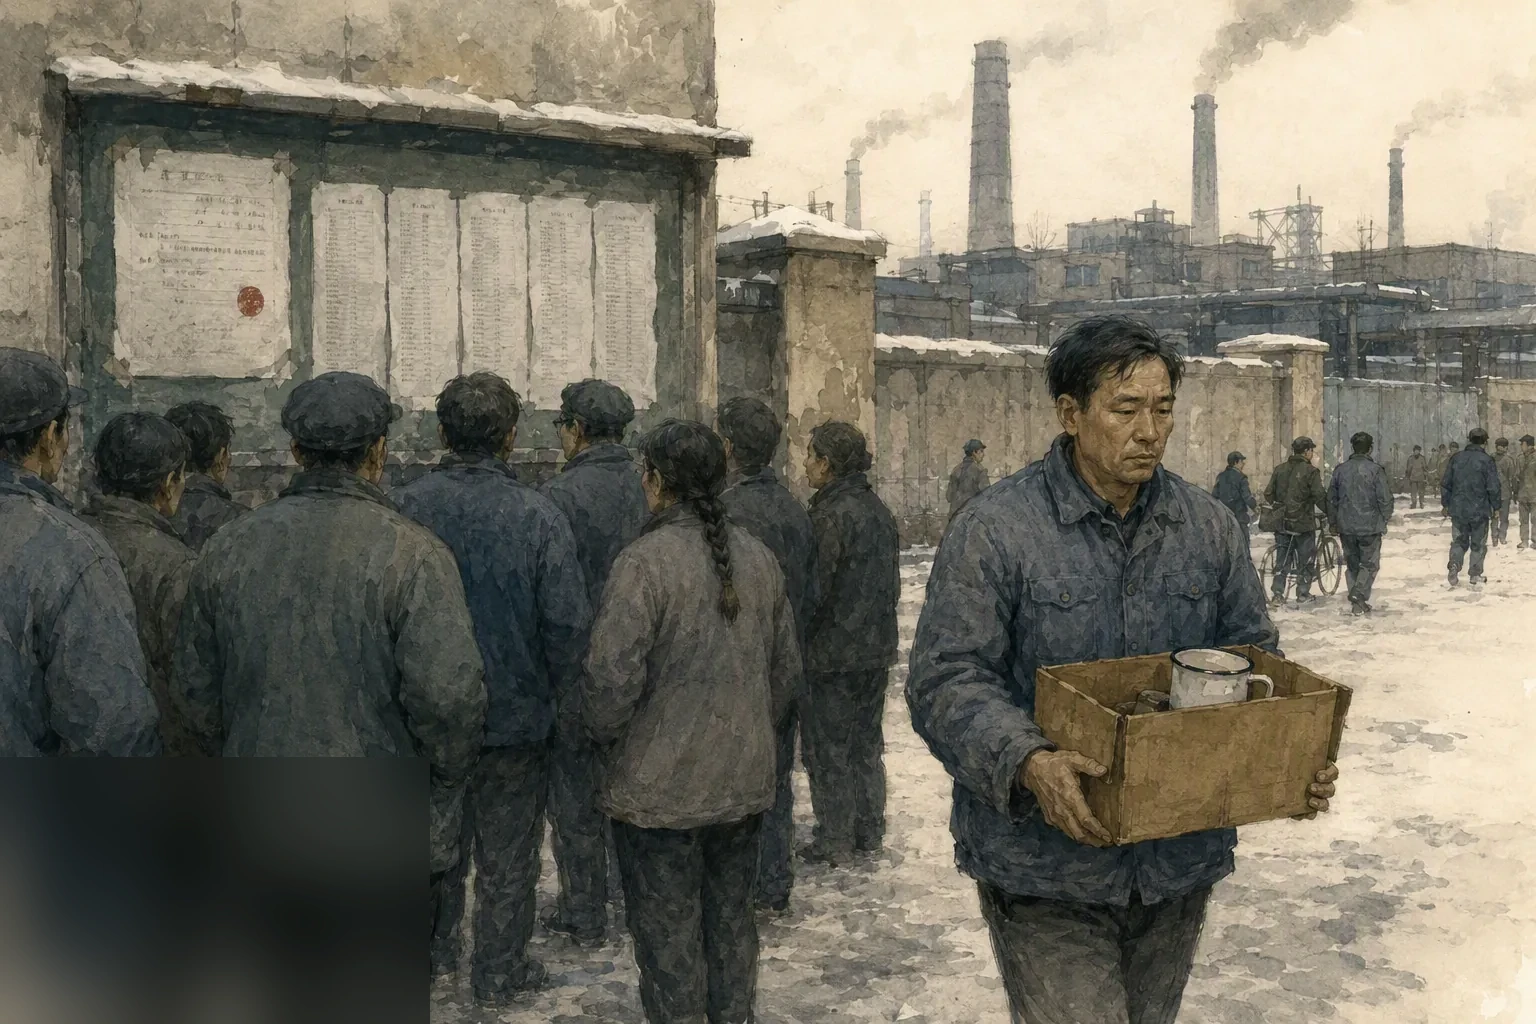
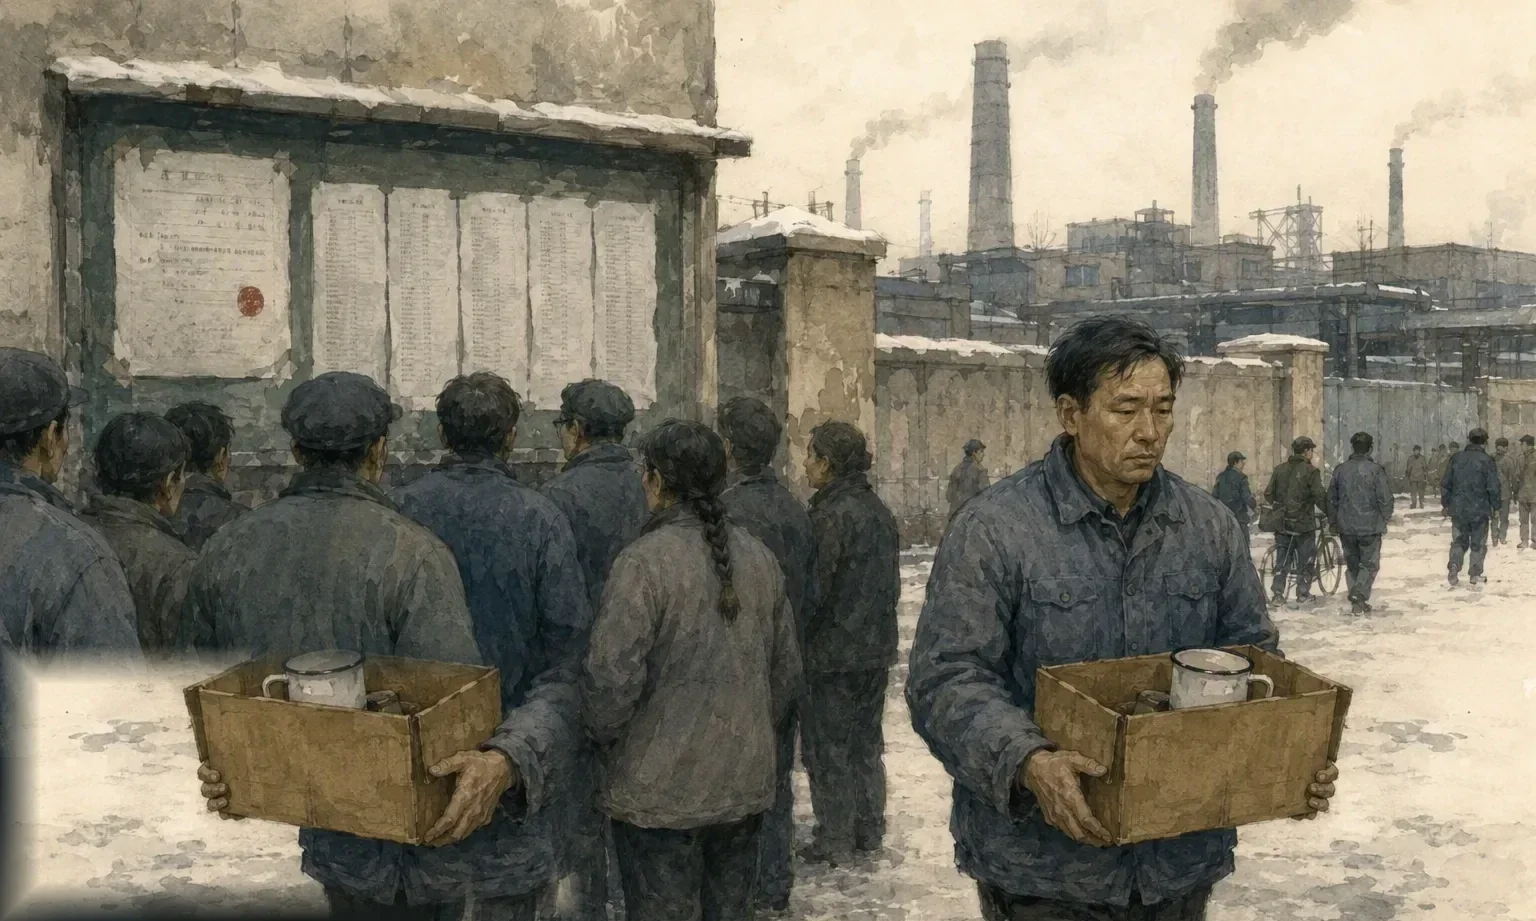
去全部水印模糊块(裁剪+重生成车间)+连画桥(缝消失)+穿画展开+幕卡档案章+画框金线+全片颗粒

diff --git a/src/world/engine.tsx b/src/world/engine.tsx
@@ -59,6 +59,7 @@ export function Board({ def, onDone, onCollect }: { def: ChapterDef; onDone: () 
   const [zoom, setZoom] = useState<string | null>(null)
   const [beams, setBeams] = useState<Beam[]>([])
   const [walker, setWalker] = useState<{ x: number; y: number } | null>(null)
+  const [through, setThrough] = useState<string | null>(null)
   const [drag, setDrag] = useState<{ id: string; x: number; y: number } | null>(null)
   const [hoverCell, setHoverCell] = useState<Cell | null>(null)
   const [joined, setJoined] = useState<string[]>([])
@@ -122,24 +123,33 @@ export function Board({ def, onDone, onCollect }: { def: ChapterDef; onDone: () 
       }
     }
     window.setTimeout(() => {
-      setPanels(prev => {
-        let next = prev
-        if (fx.spawn) {
-          const d = fx.spawn.def
-          const pref = fx.spawn.cells ?? [0, 1, 2, 3]
-          const taken = new Set(next.map(q => q.cell))
-          const cell = pref.find(c => !taken.has(c))
-          if (cell != null) next = [...next, { ...toState(d), cell, born: true }]
-        }
-        if (fx.swap) next = next.map(q => q.id === fx.swap!.panel
-          ? { ...q, dim: fx.swap!.undim ? false : q.dim, layers: [{ ...q.layers[0], img: fx.swap!.img }] } : q)
-        if (fx.setEdges) next = next.map(q => q.id === fx.setEdges!.panel
-          ? { ...q, layers: [{ ...q.layers[0], edges: fx.setEdges!.edges }] } : q)
-        if (fx.glow) next = next.map(q => q.id === fx.glow ? { ...q, lit: true } : q)
-        return next
-      })
-      if (fx.collect) onCollect()
-      if (fx.done) window.setTimeout(onDone, 1600)
+      const applyFx = () => {
+        setPanels(prev => {
+          let next = prev
+          if (fx.spawn) {
+            const d = fx.spawn.def
+            const pref = fx.spawn.cells ?? [0, 1, 2, 3]
+            const taken = new Set(next.map(q => q.cell))
+            const cell = pref.find(c => !taken.has(c))
+            if (cell != null) next = [...next, { ...toState(d), cell, born: true }]
+          }
+          if (fx.swap) next = next.map(q => q.id === fx.swap!.panel
+            ? { ...q, dim: fx.swap!.undim ? false : q.dim, layers: [{ ...q.layers[0], img: fx.swap!.img }] } : q)
+          if (fx.setEdges) next = next.map(q => q.id === fx.setEdges!.panel
+            ? { ...q, layers: [{ ...q.layers[0], edges: fx.setEdges!.edges }] } : q)
+          if (fx.glow) next = next.map(q => q.id === fx.glow ? { ...q, lit: true } : q)
+          return next
+        })
+        if (fx.collect) onCollect()
+        if (fx.done) window.setTimeout(onDone, 1600)
+      }
+      // 穿画：新画先扑面而来，再落回墙上
+      if (fx.spawn) {
+        setThrough(fx.spawn.def.img)
+        window.setTimeout(() => { setThrough(null); applyFx() }, 1200)
+      } else {
+        applyFx()
+      }
     }, delay)
   }
 
@@ -306,12 +316,30 @@ export function Board({ def, onDone, onCollect }: { def: ChapterDef; onDone: () 
     return null
   })()
 
+  // 已连上的画对：缝要"消失"，两幅画变一个连续空间
+  const linkedPairs = def.steps
+    .filter(s => done.includes(s.id) && s.cond.kind === 'connect')
+    .map(s => s.cond as { kind: 'connect'; a: string; aside: Side; b: string })
+
   return (
     <div className="board-wrap">
       <div className="board" ref={boardRef}>
         {([0, 1, 2, 3] as Cell[]).map(c => {
           const r = cellRect(c)
           return <div key={`slot-${c}`} className="slot" style={{ left: `${r.x}%`, top: `${r.y}%`, width: `${r.w}%`, height: `${r.h}%` }} />
+        })}
+
+        {linkedPairs.map((lp, i) => {
+          const a = panels.find(p => p.id === lp.a)
+          const b = panels.find(p => p.id === lp.b)
+          if (!a || !b || neighbor(a.cell, lp.aside) !== b.cell) return null
+          const ra = cellRect(a.cell)
+          let st: React.CSSProperties
+          if (lp.aside === 'r') st = { left: `${ra.x + ra.w - 0.7}%`, top: `${ra.y + 1}%`, width: `${GAP + 1.4}%`, height: `${ra.h - 2}%` }
+          else if (lp.aside === 'l') st = { left: `${ra.x - GAP - 0.7}%`, top: `${ra.y + 1}%`, width: `${GAP + 1.4}%`, height: `${ra.h - 2}%` }
+          else if (lp.aside === 'b') st = { left: `${ra.x + 1}%`, top: `${ra.y + ra.h - 0.7}%`, width: `${ra.w - 2}%`, height: `${GAP + 1.4}%` }
+          else st = { left: `${ra.x + 1}%`, top: `${ra.y - GAP - 0.7}%`, width: `${ra.w - 2}%`, height: `${GAP + 1.4}%` }
+          return <div key={`br-${i}`} className={`bridge ${lp.aside === 'r' || lp.aside === 'l' ? 'v' : 'h'}`} style={st} />
         })}
 
         {panels.map(p => {
@@ -358,6 +386,12 @@ export function Board({ def, onDone, onCollect }: { def: ChapterDef; onDone: () 
         </svg>
 
         {walker && <div className="walker" style={{ left: `${walker.x}%`, top: `${walker.y}%` }} />}
+
+        {through && (
+          <div className="through">
+            <img src={through} draggable={false} alt="" />
+          </div>
+        )}
 
         {zoom && zoomDef && zoomPanel && (
           <div className="zoom" onPointerDown={() => setZoom(null)}>

diff --git a/src/game/chapters.ts b/src/game/chapters.ts
@@ -5,7 +5,7 @@ import type { ChapterDef } from '../world/types'
 // ------------------------------------------------------------
 
 export const CH1: ChapterDef = {
-  id: 'ch1', no: '壹', name: '报名', poem: '那一夜，他第一个写下名字。',
+  id: 'ch1', no: '壹', name: '报名', poem: '那一夜，他第一个写下名字。', where: '一九五七 · 夜校报名处',
   ambient: '/story/amb-city.mp3',
   panels: [
     {
@@ -35,7 +35,7 @@ export const CH1: ChapterDef = {
 }
 
 export const CH2: ChapterDef = {
-  id: 'ch2', no: '叁', name: '门与窗', poem: '门通街巷，窗通远方。',
+  id: 'ch2', no: '叁', name: '门与窗', poem: '门通街巷，窗通远方。', where: '一九六〇 · 职工宿舍',
   ambient: '/story/amb-city.mp3',
   panels: [
     {
@@ -68,7 +68,7 @@ export const CH2: ChapterDef = {
 }
 
 export const CH3: ChapterDef = {
-  id: 'ch3', no: '伍', name: '年画', poem: '一年撕去一层，撕到一九七八。',
+  id: 'ch3', no: '伍', name: '年画', poem: '一年撕去一层，撕到一九七八。', where: '一九六六至七八 · 厂门口',
   ambient: '/story/amb-wind.mp3',
   panels: [
     {
@@ -94,7 +94,7 @@ export const CH3: ChapterDef = {
 }
 
 export const CH5: ChapterDef = {
-  id: 'ch5', no: '玖', name: '天台', poem: '收音机响的时候，她还靠在他肩上。',
+  id: 'ch5', no: '玖', name: '天台', poem: '收音机响的时候，她还靠在他肩上。', where: '一九八三 · 楼顶天台',
   ambient: '/story/amb-hum.mp3',
   panels: [
     {
@@ -121,7 +121,7 @@ export const CH5: ChapterDef = {
 }
 
 export const CH6: ChapterDef = {
-  id: 'ch6', no: '拾', name: '水果糖', poem: '最甜的那颗，他始终没舍得吃。',
+  id: 'ch6', no: '拾', name: '水果糖', poem: '最甜的那颗，他始终没舍得吃。', where: '一九八六 · 供销社',
   ambient: '/story/cicadas.mp3',
   panels: [
     {
@@ -152,7 +152,7 @@ export const CH6: ChapterDef = {
 // ------------------------------------------------------------
 
 export const CHX1: ChapterDef = {
-  id: 'chx1', no: '贰', name: '学徒', poem: '师傅的手搭在他手上，铁就听话了。',
+  id: 'chx1', no: '贰', name: '学徒', poem: '师傅的手搭在他手上，铁就听话了。', where: '一九五八 · 机修车间',
   ambient: '/sfx/factory.wav',
   panels: [
     {
@@ -180,7 +180,7 @@ export const CHX1: ChapterDef = {
 }
 
 export const CHX2: ChapterDef = {
-  id: 'chx2', no: '肆', name: '雨夜', poem: '一把伞，两个人，雨就小了。',
+  id: 'chx2', no: '肆', name: '雨夜', poem: '一把伞，两个人，雨就小了。', where: '一九六一 · 书店檐下',
   ambient: '/sfx/rain.wav',
   panels: [
     {
@@ -208,7 +208,7 @@ export const CHX2: ChapterDef = {
 }
 
 export const CHX3: ChapterDef = {
-  id: 'chx3', no: '陆', name: '站台', poem: '红围巾挥了三下，车就开了。',
+  id: 'chx3', no: '陆', name: '站台', poem: '红围巾挥了三下，车就开了。', where: '一九七八 · 火车站台',
   ambient: '/sfx/train.wav',
   panels: [
     {
@@ -230,7 +230,7 @@ export const CHX3: ChapterDef = {
 }
 
 export const CHX4: ChapterDef = {
-  id: 'chx4', no: '捌', name: '婚礼', poem: '两根红烛，就算成了家。',
+  id: 'chx4', no: '捌', name: '婚礼', poem: '两根红烛，就算成了家。', where: '一九八〇 · 新房',
   ambient: '/sfx/murmur.wav',
   panels: [
     {

diff --git a/src/game/Game.tsx b/src/game/Game.tsx
@@ -27,11 +27,11 @@ const STAGES: Stage[] = [
   { kind: 'epilogue' },
 ]
 
-const ACT4_CARD = { no: '柒', name: '签字', poem: '五个字，他签了一生。' }
-const EP_CARD = { no: '终', name: '回程', poem: '往回走，走回糖纸发光的地方。' }
+const ACT4_CARD = { no: '柒', name: '签字', poem: '五个字，他签了一生。', where: '一九七一 · 厂办公室' }
+const EP_CARD = { no: '终', name: '回程', poem: '往回走，走回糖纸发光的地方。', where: '如今' }
 
 function cardOf(s: Stage) {
-  if (s.kind === 'chapter') return { no: s.def.no, name: s.def.name, poem: s.def.poem }
+  if (s.kind === 'chapter') return { no: s.def.no, name: s.def.name, poem: s.def.poem, where: s.def.where ?? '' }
   if (s.kind === 'act4') return ACT4_CARD
   return EP_CARD
 }
@@ -76,7 +76,7 @@ export default function Game() {
 
       {card && idx + 1 < STAGES.length && (() => {
         const c = cardOf(STAGES[idx + 1])
-        return <Card no={c.no} name={c.name} poem={c.poem} />
+        return <Card no={c.no} name={c.name} poem={c.poem} where={c.where} />
       })()}
 
       {!card && stage?.kind === 'chapter' && (
@@ -101,12 +101,13 @@ export default function Game() {
   )
 }
 
-function Card({ no, name, poem }: { no: string; name: string; poem: string }) {
+function Card({ no, name, poem, where }: { no: string; name: string; poem: string; where: string }) {
   return (
     <div className="card">
       <div className="card-no">第{no}幕</div>
       <div className="card-name">{name}</div>
       <div className="card-poem">{poem}</div>
+      {where && <div className="card-where">{where}</div>}
     </div>
   )
 }

diff --git a/src/world/engine.css b/src/world/engine.css
@@ -373,3 +373,54 @@
     0 0 0 6px rgba(255, 232, 180, 0.16),
     0 28px 54px rgba(0, 0, 0, 0.68);
 }
+
+/* ---------- 空间感：连画桥 / 穿画 ---------- */
+
+/* 连上之后，两框之间的墙消失了 */
+.bridge {
+  position: absolute;
+  z-index: 6;
+  pointer-events: none;
+  animation: bridge-in 0.9s ease both;
+}
+.bridge.v {
+  background: linear-gradient(90deg,
+    rgba(18, 12, 6, 0.95) 0%, rgba(255, 222, 150, 0.34) 50%, rgba(18, 12, 6, 0.95) 100%);
+}
+.bridge.h {
+  background: linear-gradient(180deg,
+    rgba(18, 12, 6, 0.95) 0%, rgba(255, 222, 150, 0.34) 50%, rgba(18, 12, 6, 0.95) 100%);
+}
+@keyframes bridge-in {
+  from { opacity: 0; filter: blur(3px); }
+  to { opacity: 1; filter: blur(0.6px); }
+}
+
+/* 穿画：新画扑面而来，你穿过去，它落回墙上 */
+.through {
+  position: absolute;
+  inset: 0;
+  z-index: 40;
+  pointer-events: none;
+  background: rgba(8, 5, 3, 0.35);
+}
+.through img {
+  position: absolute;
+  inset: 0;
+  width: 100%;
+  height: 100%;
+  object-fit: cover;
+  animation: through-fly 1.2s cubic-bezier(0.24, 0.8, 0.3, 1) both;
+  box-shadow: 0 0 0 6px #241a10, 0 40px 120px rgba(0, 0, 0, 0.9);
+}
+@keyframes through-fly {
+  0% { transform: scale(0.58); opacity: 0; }
+  22% { opacity: 1; }
+  78% { transform: scale(1.05); opacity: 1; }
+  100% { transform: scale(1.14); opacity: 0; }
+}
+
+/* 画框内侧一道金线 */
+.pnl-art {
+  box-shadow: inset 0 0 0 1px rgba(255, 230, 180, 0.16), inset 0 0 26px rgba(0, 0, 0, 0.28);
+}

diff --git a/src/game/game.css b/src/game/game.css
@@ -331,3 +331,27 @@
   background: url(/tex/paper.png) 0 0 / 90% repeat, linear-gradient(175deg, #efe3c8, #e2d2b0);
   background-blend-mode: multiply;
 }
+
+/* 幕卡档案章 */
+.card-where {
+  margin-top: 1vh;
+  padding: 0.35em 0.9em;
+  border: 1.5px solid rgba(160, 50, 36, 0.85);
+  color: rgba(200, 90, 70, 0.95);
+  font-size: clamp(11px, 1.6vmin, 15px);
+  letter-spacing: 0.3em;
+  border-radius: 2px;
+  transform: rotate(-1.5deg);
+}
+
+/* 全片胶片颗粒 */
+.game::after {
+  content: '';
+  position: fixed;
+  inset: 0;
+  z-index: 70;
+  pointer-events: none;
+  background: url(/tex/paper.png) 0 0 / 50vmin repeat;
+  opacity: 0.05;
+  mix-blend-mode: overlay;
+}

diff --git a/src/world/types.ts b/src/world/types.ts
@@ -61,6 +61,7 @@ export interface ChapterDef {
   no: string
   name: string
   poem: string
+  where?: string
   ambient?: string
   panels: PanelDef[]
   steps: Step[]
